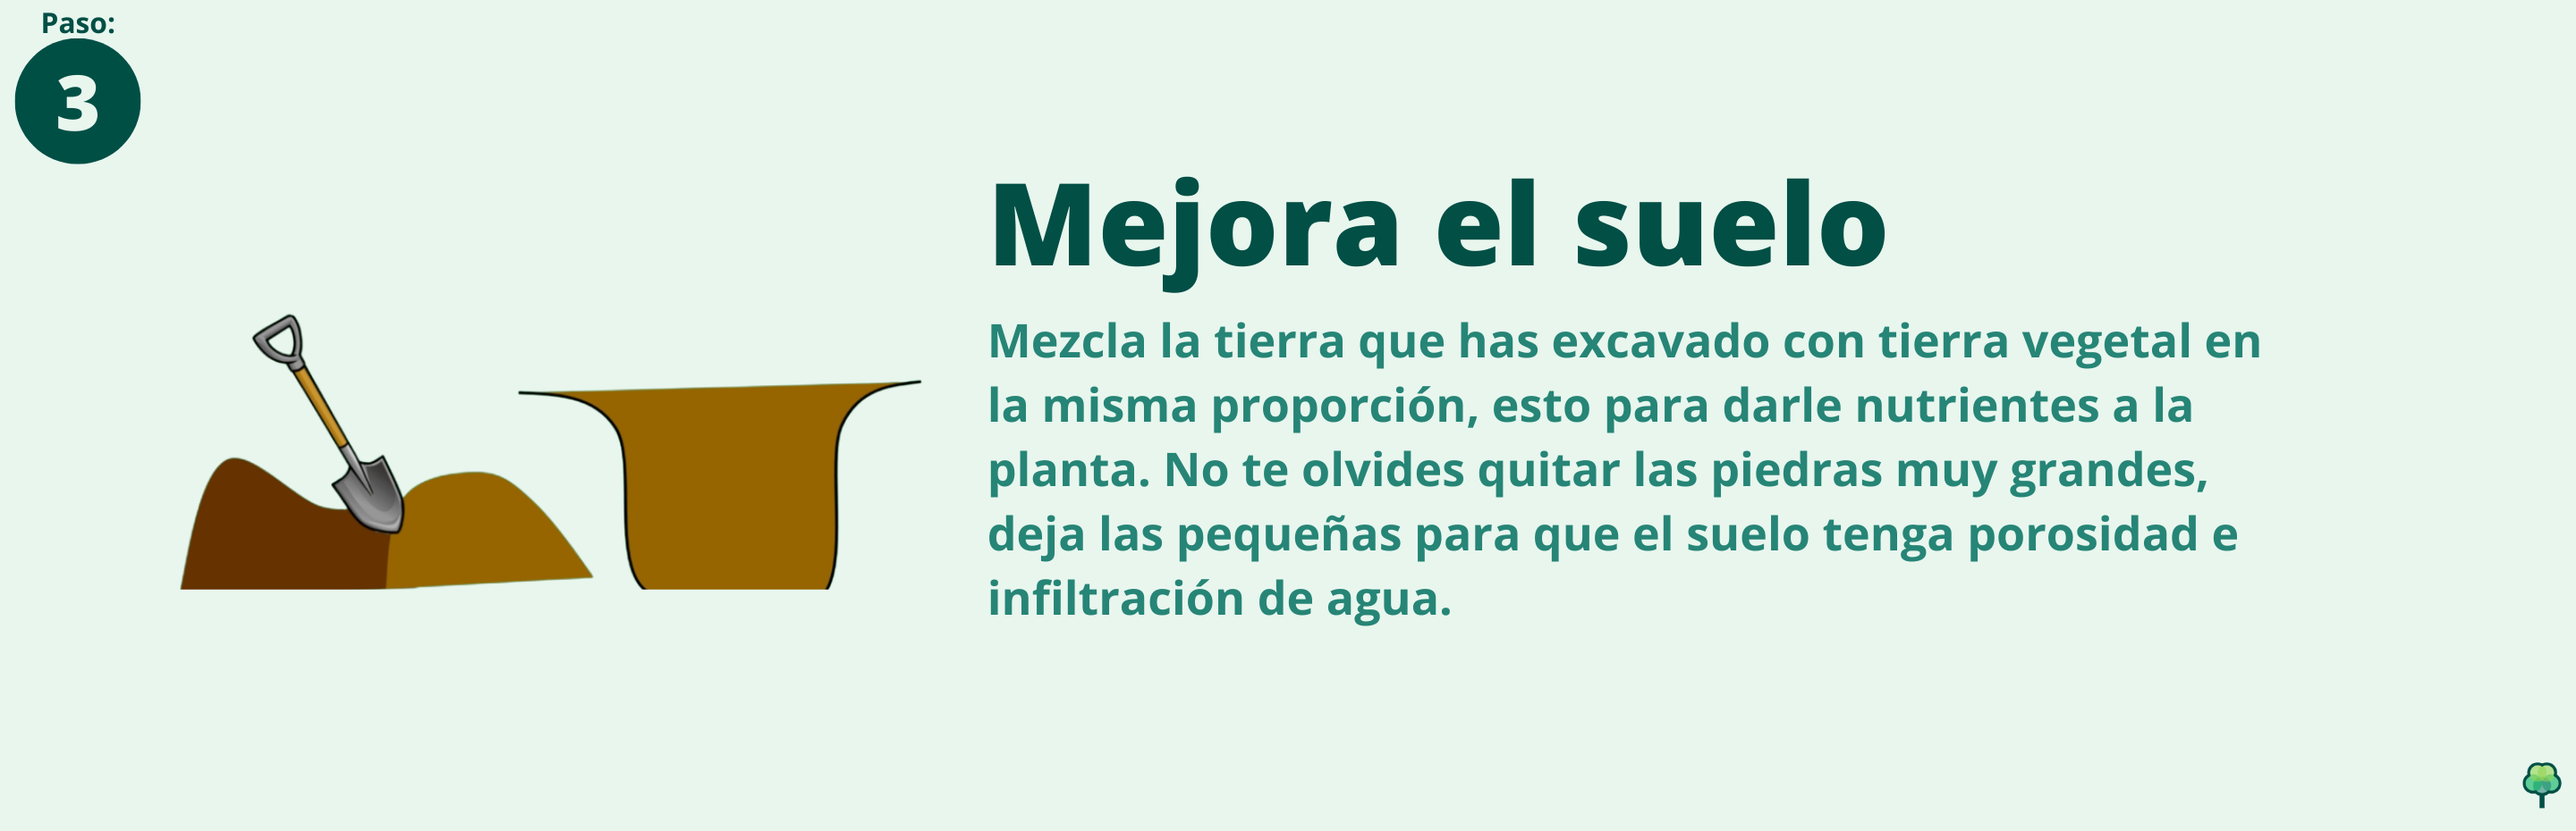
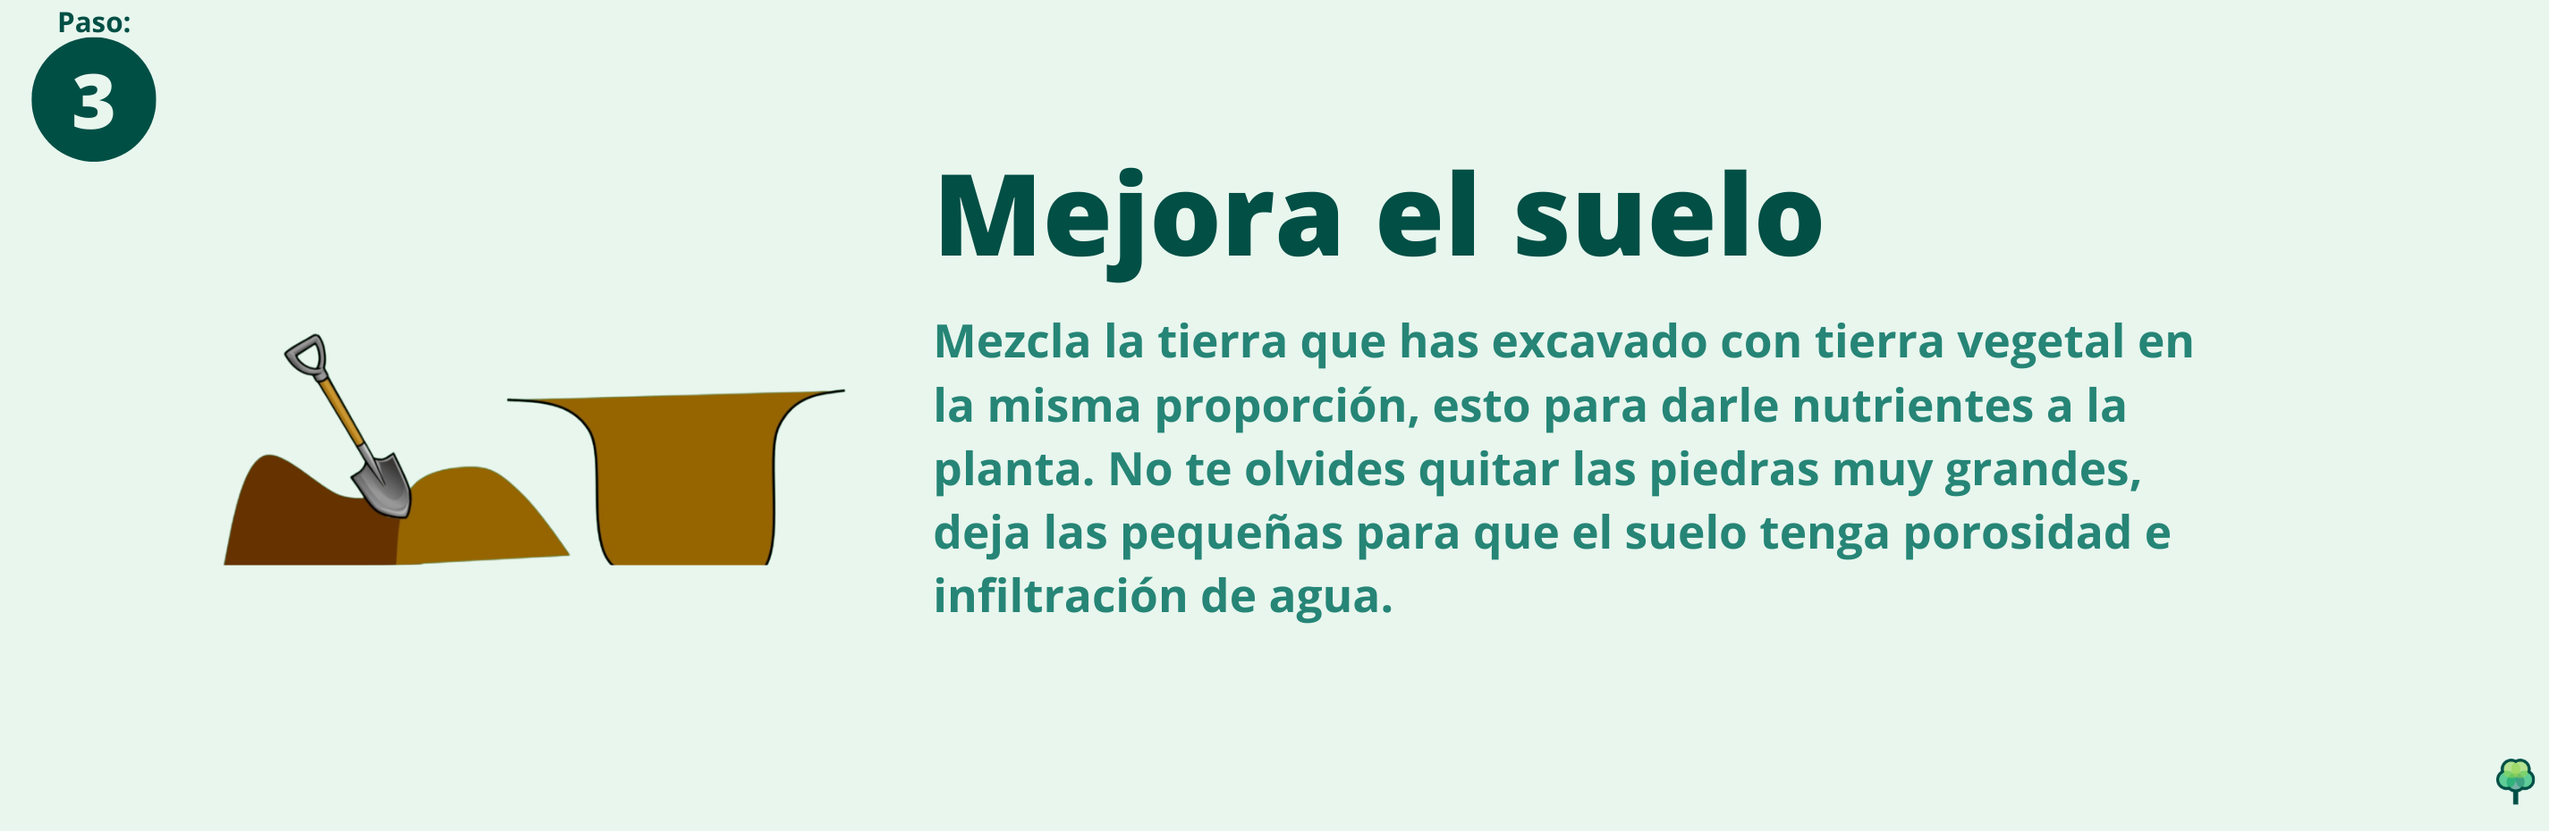
responsive del catalogo

diff --git a/src/components/catalogo/manual/Manuales.css b/src/components/catalogo/manual/Manuales.css
@@ -1,5 +1,5 @@
 .container-slider {
-  background-color: #E8F6EE;
+  background-color: #E8F6EE; 
   display: flex;
   align-items: center;
   width: 100%;
@@ -17,10 +17,16 @@
   opacity: 0;
   transition: opacity ease-in-out 0.4s;
 }
-.slide img {
+.img-mobile{
+  display: none;
   width: 100%;
+  object-fit: cover;
+  background-position: center;
+  background-size: cover;
+}
+.img-desktop{
 
-  /* height: 100%; */
+  width: 100%;
   object-fit: cover;
   background-position: center;
   background-size: cover;
@@ -123,17 +129,15 @@
 }
 
 /* mobile */
-@media (max-width: 391px){
+@media (max-width: 548px){
 
-  .container-slider {
-    
-  }
   .container-dots {
     display: none;
   }
   .btn-slide {
+    margin-top: 10%;
     width: 80px;
-    height: 100%;
+    height: 90%;
     border-radius: 0;
     border: 0;
     background: none;
@@ -141,4 +145,77 @@
   .btn-slide img {
     display: none;
   }
+  .img-desktop {
+    display: none;
+    
+  }
+  .img-mobile{
+    display: flex;
+    align-items: center;
+    margin:  0 auto;
+  }
+  .container-slider {
+    background-color: white; 
+    min-height: 548px;
+  }
+
+}
+@media (max-width: 448px){
+
+  .container-slider {
+    min-height: 448px;
+  }
+
+}
+
+@media (max-width: 428px){
+
+  .container-slider {
+    min-height: 428px;
+  }
+
+}
+@media (max-width: 390px){
+
+  .container-slider {
+    min-height: 390px;
+  }
+
+}
+@media (max-width: 375px){
+
+  .container-slider {
+    min-height: 375px;
+  }
+
+}
+@media (max-width: 360px){
+
+  .container-slider {
+    min-height: 360px;
+  }
+
+}
+
+@media (max-width: 340px){
+
+  .container-slider {
+    min-height: 340px;
+  }
+
+}
+
+@media (max-width: 320px){
+
+  .container-slider {
+    min-height: 320px;
+  }
+
+}
+@media (max-width: 300px){
+
+  .container-slider {
+    min-height: 300px;
+  }
+
 }

diff --git a/src/components/catalogo/manual/Manuales.jsx b/src/components/catalogo/manual/Manuales.jsx
@@ -40,10 +40,16 @@ export default function Slider() {
                     key={obj.id}
                     className={slideIndex === index + 1 ? "slide active-anim" : "slide"}
                     >
-                        <img 
+                    
+                    <img className='img-desktop'
                         src={process.env.PUBLIC_URL + `/Imgs/slides${index + 1}.png`} 
                         />
+                    <img className='img-mobile'
+                        src={process.env.PUBLIC_URL + `/Imgs/imgs mobile/slides${index + 1}.png`} 
+                        />
                     </div>
+    
+                    
                 )
             })}
             
